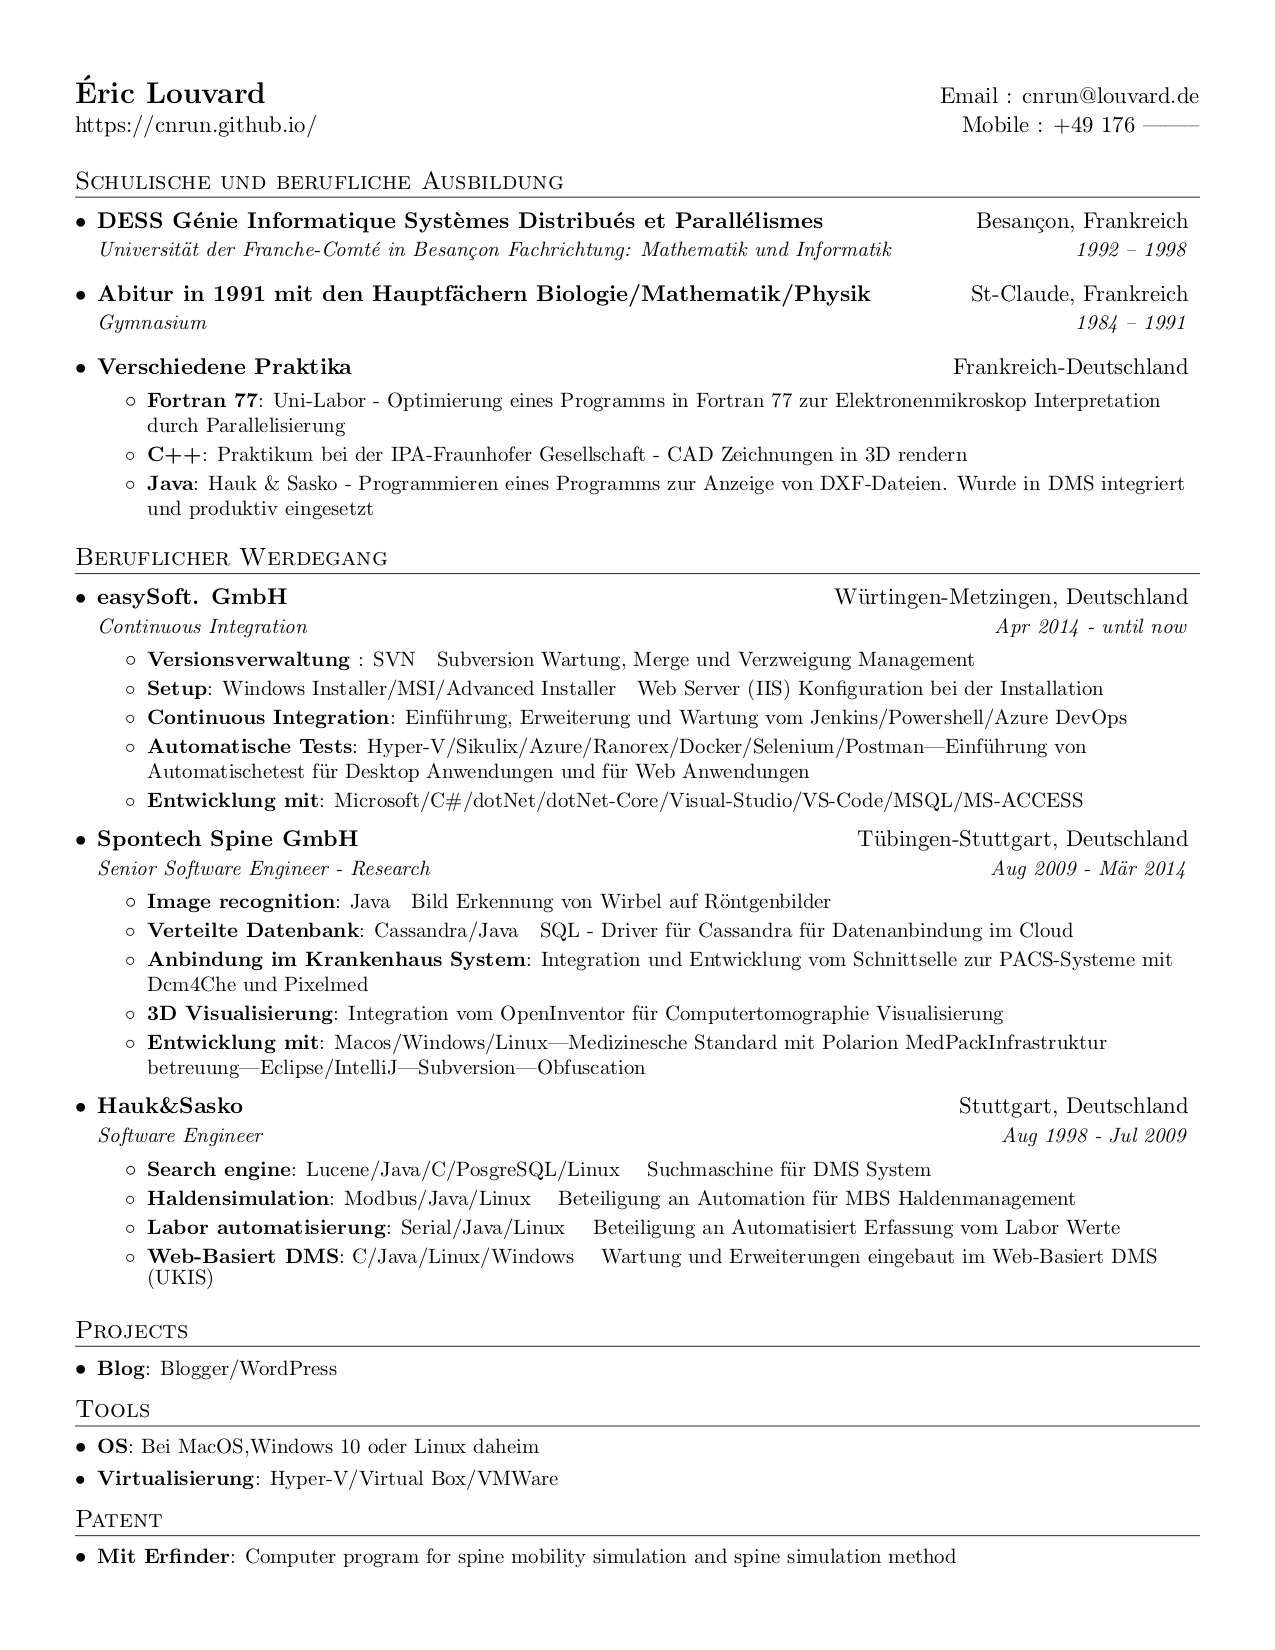
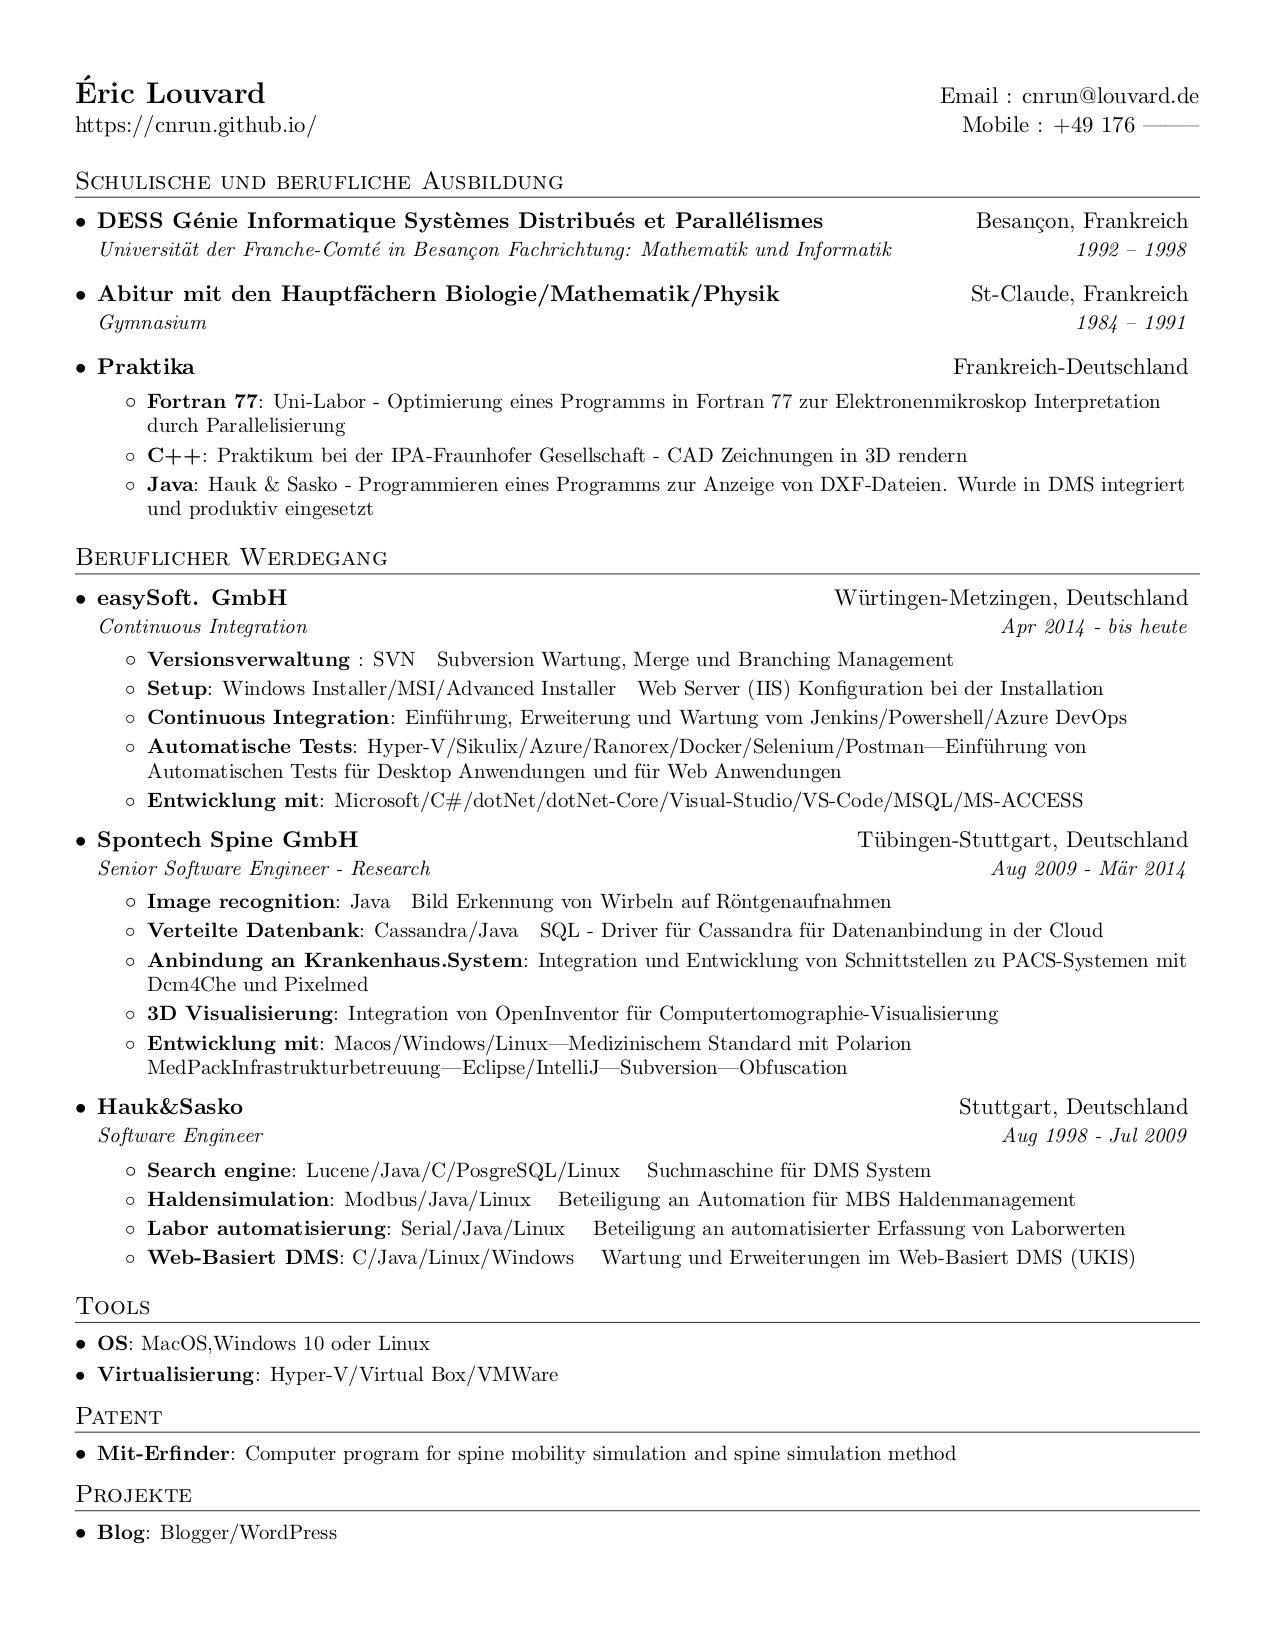
Rechtschreibung

diff --git a/eric_louvard_resume.tex b/eric_louvard_resume.tex
@@ -99,7 +99,7 @@
       {Abitur mit den Hauptfächern Biologie/Mathematik/Physik}{St-Claude, Frankreich}
       {Gymnasium}{1984 -- 1991}
     \resumeSubheadingShort
-      {Verschiedene Praktika}{Frankreich-Deutschland}
+      {Praktika}{Frankreich-Deutschland}
       \resumeItemListStart
         \resumeItem{Fortran 77}
           {Uni-Labor - Optimierung eines Programms in Fortran 77 zur Elektronenmikroskop Interpretation durch Parallelisierung}
@@ -116,16 +116,16 @@
   \resumeSubHeadingListStart
     \resumeSubheading
       {easySoft. GmbH}{Würtingen-Metzingen, Deutschland}
-      {Continuous Integration}{Apr 2014 - until now}
+      {Continuous Integration}{Apr 2014 - bis heute}
       \resumeItemListStart
         \resumeItem{Versionsverwaltung }
-          {SVN}{Subversion Wartung, Merge und Verzweigung Management}
+          {SVN}{Subversion Wartung, Merge und Branching Management}
         \resumeItem{Setup}
           {Windows Installer/MSI/Advanced Installer}{Web Server (IIS) Konfiguration bei der Installation}
         \resumeItem{Continuous Integration}
           {Einführung, Erweiterung und Wartung vom Jenkins/Powershell/Azure DevOps}
         \resumeItem{Automatische Tests}
-          {Hyper-V/Sikulix/Azure/Ranorex/Docker/Selenium/Postman|Einführung von Automatischetest für Desktop Anwendungen und für Web Anwendungen}
+          {Hyper-V/Sikulix/Azure/Ranorex/Docker/Selenium/Postman|Einführung von Automatischen Tests für Desktop Anwendungen und für Web Anwendungen}
         \resumeItem{Entwicklung mit}
           {Microsoft/C\#/dotNet/dotNet-Core/Visual-Studio/VS-Code/MSQL/MS-ACCESS}
       \resumeItemListEnd
@@ -135,15 +135,15 @@
       {Senior Software Engineer - Research}{Aug 2009 - Mär 2014}
       \resumeItemListStart
         \resumeItem{Image recognition}
-          {Java}{Bild Erkennung von Wirbel auf Röntgenbilder}
+          {Java}{Bild Erkennung von Wirbeln auf Röntgenaufnahmen}
         \resumeItem{Verteilte Datenbank}
-          {Cassandra/Java}{SQL - Driver für Cassandra für Datenanbindung im Cloud}
-        \resumeItem{Anbindung im Krankenhaus System}
-          {Integration und Entwicklung vom Schnittselle zur PACS-Systeme mit Dcm4Che und Pixelmed}
+          {Cassandra/Java}{SQL - Driver für Cassandra für Datenanbindung in der Cloud}
+        \resumeItem{Anbindung an Krankenhaus.System}
+          {Integration und Entwicklung von Schnittstellen zu PACS-Systemen mit Dcm4Che und Pixelmed}
         \resumeItem{3D Visualisierung}
-          {Integration vom OpenInventor für Computertomographie Visualisierung}
+          {Integration von OpenInventor für Computertomographie-Visualisierung}
         \resumeItem{Entwicklung mit}
-          {Macos/Windows/Linux|Medizinesche Standard mit Polarion MedPackInfrastruktur betreuung|Eclipse/IntelliJ|Subversion|Obfuscation}
+          {Macos/Windows/Linux|Medizinischem Standard mit Polarion MedPackInfrastrukturbetreuung|Eclipse/IntelliJ|Subversion|Obfuscation}
       \resumeItemListEnd
 
     \resumeSubheading
@@ -158,35 +158,32 @@
           {Beteiligung an Automation für MBS Haldenmanagement}
         \resumeItem{Labor automatisierung}
           {Serial/Java/Linux}
-          {Beteiligung an Automatisiert Erfassung vom Labor Werte}
+          {Beteiligung an automatisierter Erfassung von Laborwerten}
         \resumeItem{Web-Basiert DMS}
           {C/Java/Linux/Windows}
-          {Wartung und Erweiterungen eingebaut im Web-Basiert DMS (UKIS)}
+          {Wartung und Erweiterungen im Web-Basiert DMS (UKIS)}
       \resumeItemListEnd
-  \resumeSubHeadingListEnd
-
-
-%-----------PROJECTS-----------------
-\section{Projects}
-  \resumeSubHeadingListStart
-    \resumeSubItem{Blog}
-      {Blogger/WordPress}
   \resumeSubHeadingListEnd
 
 %-----------TOOLS-----------------
 \section{Tools}
   \resumeSubHeadingListStart
     \resumeSubItem{OS}
-      {Bei MacOS,Windows 10 oder Linux daheim}
+      {MacOS,Windows 10 oder Linux}
     \resumeSubItem{Virtualisierung}
       {Hyper-V/Virtual Box/VMWare}
   \resumeSubHeadingListEnd
-
 %-----------PATENT-----------------
 \section{Patent}
   \resumeSubHeadingListStart
-    \resumeSubItem{Mit Erfinder}
+    \resumeSubItem{Mit-Erfinder}
       {Computer program for spine mobility simulation and spine simulation method}
+  \resumeSubHeadingListEnd
+%-----------PROJECTS-----------------
+\section{Projekte}
+  \resumeSubHeadingListStart
+    \resumeSubItem{Blog}
+      {Blogger/WordPress}
   \resumeSubHeadingListEnd
 
 %
